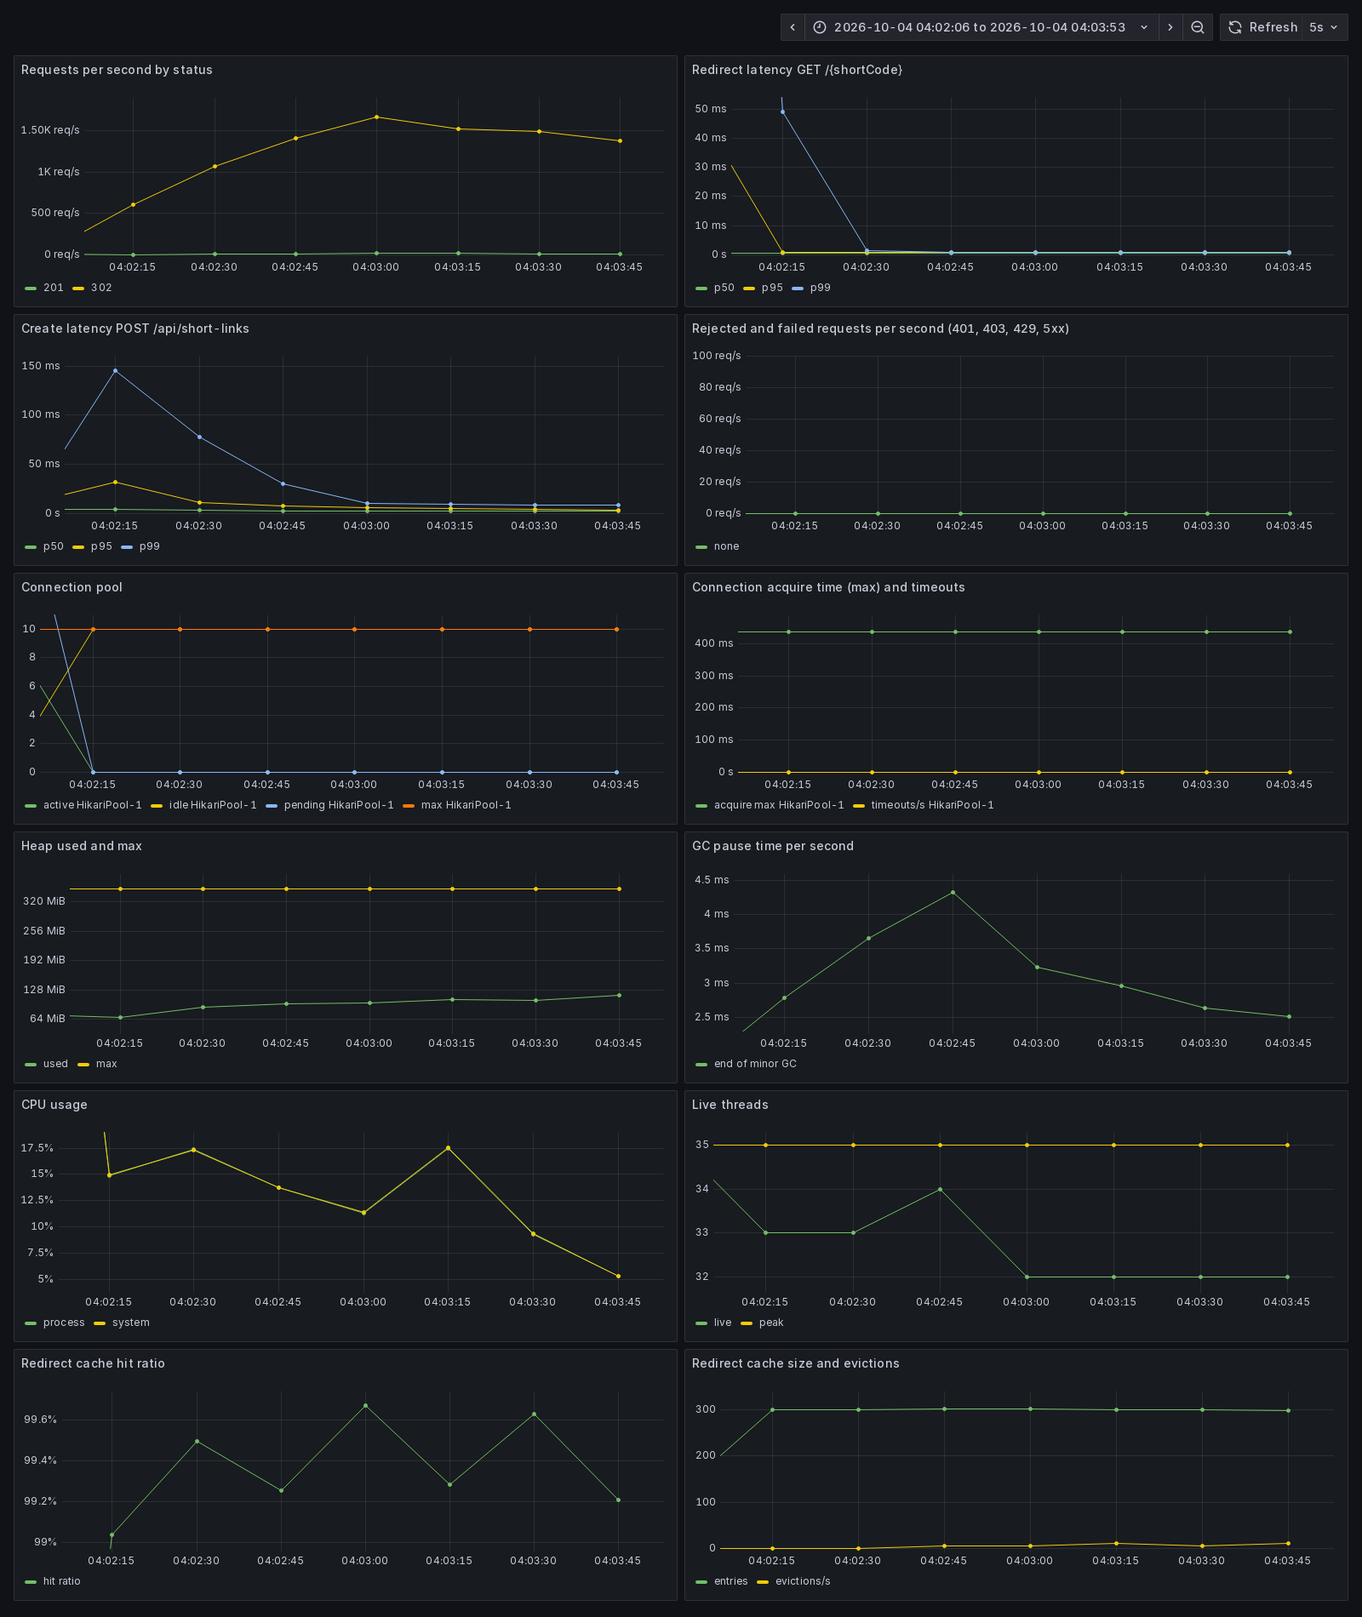
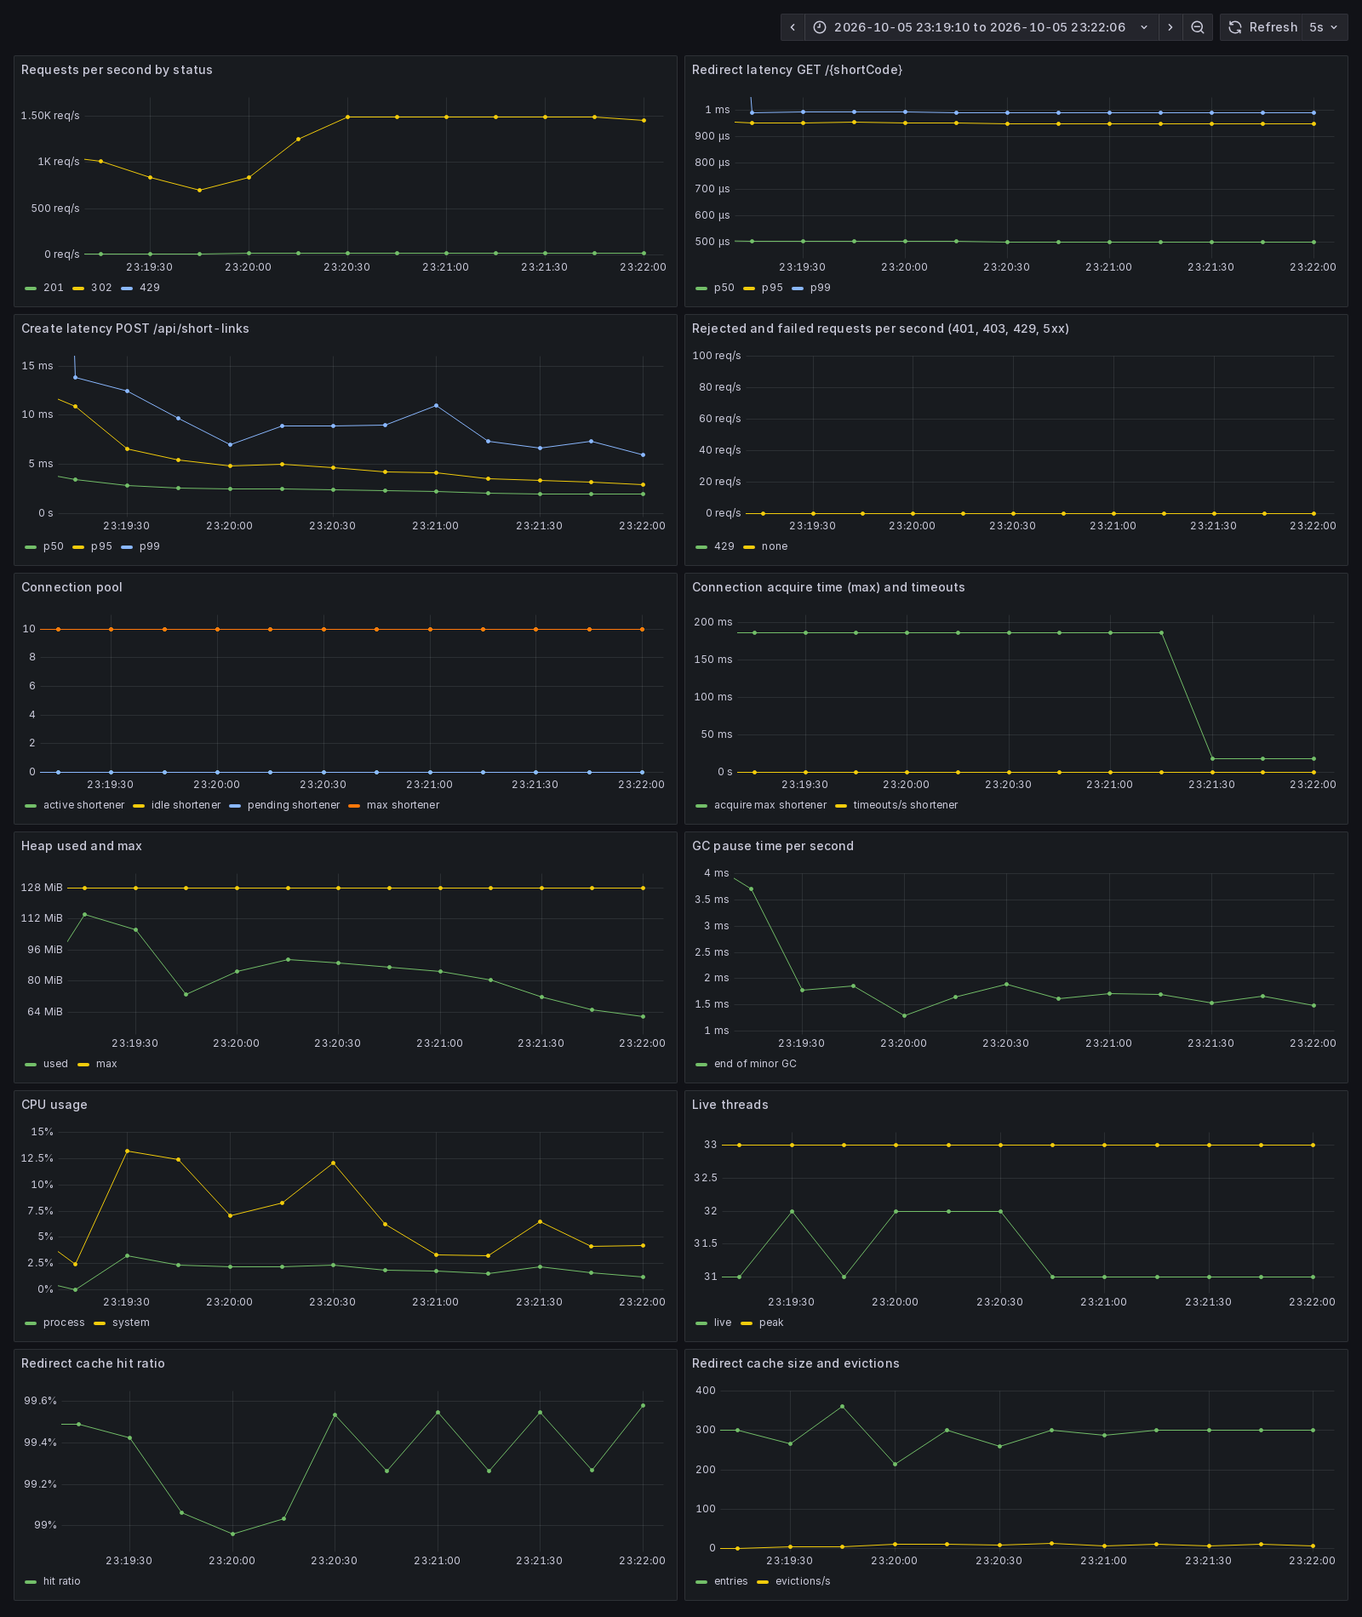
Move the screenshots to an observability guide, with tables and fresh captures
The README's "What it looks like" section is gone. docs/OBSERVABILITY.md now holds what the
service reports about itself, with tables for the signals, the twelve dashboard panels and the
series behind them, the spans, the metrics, the five alerts and the health and database
behaviour, and the two screenshots.

- dashboard.png and trace.png are recaptured from the 0.20.0 JVM build pinned to two cores and
  a 512 MB ceiling, at 1,500 requests a second with 1% creates: about 99% cache hits, redirect
  p99 around 1 ms, nothing rejected. The first attempt was thrown away because the dev profile's
  rate limits answered most of the load with 429.
- The trace panel is cropped to the trace, without the surrounding Grafana interface.
- INTERNALS keeps the observability decisions and links to the guide. The README links to it
  from the local observability instructions and from the layout.

diff --git a/docs/OBSERVABILITY.md b/docs/OBSERVABILITY.md
@@ -1,0 +1,129 @@
+# Observability
+
+What the service reports about itself, what it looks like, and what to alert on. Running it locally:
+`docker compose --profile observability up -d` starts Prometheus, Grafana (<http://localhost:3000>, no login), Tempo and the
+Postgres exporter, and `./gradlew bootRun` uses the `dev` profile, which samples every trace. The production stack has
+its own overlay, see [DEPLOY.md](DEPLOY.md#operate).
+
+- [At a glance](#at-a-glance)
+- [Dashboard](#dashboard)
+- [Traces](#traces)
+- [Metrics](#metrics)
+- [Alerts](#alerts)
+- [Health, logs and the database](#health-logs-and-the-database)
+- [Not done](#not-done)
+
+## At a glance
+
+| Signal | Where | Notes |
+|---|---|---|
+| Metrics | `/actuator/prometheus`, management port 8081 | internal, never proxied by the edge |
+| Dashboard | `deploy/observability/grafana/dashboards/shortener.json` | twelve panels |
+| Traces | OTLP over HTTP to Tempo | sampling 0 by default, 100% under `dev`, 5% under `production` |
+| Logs | JSON on stdout (ECS) under `production` | trace and span ids included |
+| Health | `/actuator/health/liveness` and `/readiness`, management port | readiness does not include the database |
+| Alerts | `deploy/observability/alerts.yml` | five rules, unit-tested with promtool |
+
+## Dashboard
+
+The shipped dashboard during a run of 1,500 requests a second, 1% of them creates, with the JVM limited to two cores and
+a 512 MB memory ceiling. The redirect cache answers about 99% of redirects (the hit ratio panel), so the connection pool stays idle.
+
+![Grafana dashboard](images/dashboard.png)
+
+| Panel | Answers | Main series |
+|---|---|---|
+| Requests per second by status | how much traffic, and how it ends | `http_server_requests_seconds_count` by `status` |
+| Redirect latency | how fast `GET /{shortCode}` is (p50, p95, p99) | `http_server_requests_seconds_bucket`, `uri="/{shortCode}"` |
+| Create latency | how fast `POST /api/short-links` is | the same, `uri="/api/short-links"` |
+| Rejected and failed requests | what is refused: 401, 403, 429, 5xx | `http_server_requests_seconds_count` by `status` |
+| Connection pool | active, idle, pending and maximum connections | `hikaricp_connections_*` |
+| Connection acquire time and timeouts | whether requests wait for the database | `hikaricp_connections_acquire_seconds_max`, `hikaricp_connections_timeout_total` |
+| Heap used and max | memory pressure | `jvm_memory_used_bytes`, `jvm_memory_max_bytes` |
+| GC pause time per second | cost of garbage collection | `jvm_gc_pause_seconds_sum` |
+| CPU usage | process and system CPU | `process_cpu_usage`, `system_cpu_usage` |
+| Live threads | live and peak threads | `jvm_threads_live_threads`, `jvm_threads_peak_threads` |
+| Redirect cache hit ratio | the share of redirects answered from memory | `cache_gets_total` by `result` |
+| Redirect cache size and evictions | whether the cache is full | `cache_size`, `cache_evictions_total` |
+
+- A panel stays empty until its event happens, because Prometheus has no series for something that has not occurred.
+- The native image has no JVM garbage collector beans, so its GC panel is empty and its heap maximum reads zero.
+- Route templates, not codes, label the request series, so short codes never become label values (tested).
+
+## Traces
+
+A create request in Tempo: the HTTP span and, under it, the `shortlink.insert` span for the database write.
+
+![A create request as a trace in Tempo](images/trace.png)
+
+| Span | Means |
+|---|---|
+| `http <method> <route>` | one per request, named by route (`http get /{shortCode}`), joined to the caller's trace by `traceparent` |
+| `shortlink.load` | a redirect that missed the cache and read the database. A cached redirect has no such span |
+| `shortlink.insert` | one attempt to store a link. A code collision shows as a second insert |
+
+- `shortlink.load` and `shortlink.insert` are also timers: `shortlink_load_seconds` and `shortlink_insert_seconds`.
+- Trace and span ids are in the logs. Spring Security's per-filter observations are off, which would add a span per filter.
+- The exporter is always built in and its endpoint has a default in `application.yaml`. A native image decides at build
+  time which beans exist, so removing the endpoint, or supplying it only at run time, compiles the exporter out
+  silently. Environment variables still override the value at run time.
+- Export of logs and metrics over OTLP is off.
+
+## Metrics
+
+| Series | Type | Use |
+|---|---|---|
+| `http_server_requests_seconds` | histogram | rate, errors and latency by route and status |
+| `hikaricp_connections_active`, `_idle`, `_pending`, `_max` | gauge | pool use |
+| `hikaricp_connections_acquire_seconds_max` | gauge | the longest wait for a connection |
+| `hikaricp_connections_timeout_total` | counter | requests that gave up waiting for a connection |
+| `cache_gets_total{cache="shortlink.redirect"}` | counter | hits and misses of the redirect cache |
+| `cache_size`, `cache_evictions_total` | gauge, counter | cache fill |
+| `shortlink_redirect_cache_stale_total` | counter | redirects served from an expired entry while the database was down. Should be zero |
+| `shortlink_load_seconds`, `shortlink_insert_seconds` | timer | the database read of a redirect, and each insert attempt |
+| `jvm_*`, `process_*` | | memory, GC, threads and CPU of the JVM |
+| `pg_*` | | the database, from the Postgres exporter |
+
+## Alerts
+
+`deploy/observability/alerts.yml`, on what the application sees of its database and its cache. The cache answers about 99%
+of redirects, so the pool is idle in normal operation: any of these means the cache is not absorbing the load, or the
+database is slow or gone.
+
+| Alert | Fires when | For | Severity |
+|---|---|---|---|
+| `ShortenerDatabasePoolExhausted` | requests are waiting for a connection | 2 m | warning |
+| `ShortenerDatabaseConnectionTimeouts` | requests gave up waiting for a connection, or the database could not be reached | 1 m | warning |
+| `ShortenerDatabaseSlowToConnect` | the slowest wait for a connection exceeds 500 ms | 10 m | warning |
+| `ShortenerStorageUnavailable` | more than 1% of requests are answered `503` | 5 m | critical |
+| `ShortenerServingStaleRedirects` | redirects are served from an expired entry because the database cannot be reached | 2 m | warning |
+
+- Each rule has a unit test with simulated series, in `deploy/observability/alerts.test.yml`. CI runs them with promtool:
+
+  ```bash
+  docker run --rm -v "$PWD/deploy/observability:/rules:ro" -w /rules --entrypoint promtool \
+    prom/prometheus:v3.5.0 test rules alerts.test.yml
+  ```
+- Prometheus evaluates them and shows them in its interface. Sending them somewhere needs an Alertmanager, see
+  `deploy/observability/prometheus.stack.yml`.
+- The database server's own alerts (connections against `max_connections`, replication, backup age, transaction age)
+  depend on how Postgres is run, and are not here.
+
+## Health, logs and the database
+
+| What | Behaviour |
+|---|---|
+| Liveness | the process is up |
+| Readiness | the application's own state only. It excludes the database: every instance shares one, so removing them all from rotation gains nothing, and the health check that restarts unhealthy containers would restart all of them during an outage. An instance answers what it can and gives `503` with `Retry-After` for the rest |
+| Logs | structured ECS JSON under the `production` profile, plain text otherwise |
+| Slow statements | `deploy/postgres/diagnostics.conf` logs statements over 250 ms with their plan, lock waits, sorts that spill to disk and slow autovacuums |
+| Database metrics | `postgres_exporter` as `shortener_exporter`, limited to 25 statements and no query text |
+| When it is slow | `perf/pg-diagnostics.sql`: connections by application and state, what waits for a lock, the costliest statements, cache hit ratio, dead rows, unused indexes and distance from transaction ID wraparound |
+
+Every connection reports `shortener-<hostname>` as its application name, so `pg_stat_activity` says who holds what.
+
+## Not done
+
+- Metrics from the nginx edge.
+- A Grafana dashboard for Postgres. The exporter's series are there to build one.
+- Anything that sends the alerts Prometheus fires.

diff --git a/README.md b/README.md
@@ -43,21 +43,10 @@ curl -i http://localhost:8080/<shortCode>
 ```
 
 Optional observability: `docker compose --profile observability up -d` starts Prometheus, Grafana and Tempo. Open
-<http://localhost:3000/d/shortener/shortener>. The `dev` profile samples every trace.
+<http://localhost:3000/d/shortener/shortener>. The `dev` profile samples every trace. What you will see is in
+[docs/OBSERVABILITY.md](docs/OBSERVABILITY.md), with screenshots.
 
 The dev clients, keys and secrets in this repository are public on purpose. Never use them anywhere real.
-
-## What it looks like
-
-The shipped Grafana dashboard at 1,500 requests a second, 1% creates (JVM, 2 cores, 512 MB). The cache answers about 99%
-of redirects, so the pool stays idle:
-
-![Grafana dashboard](docs/images/dashboard.png)
-
-A create as a trace in Tempo: the HTTP span and its `shortlink.insert` child. A cached redirect is one span, a miss adds
-`shortlink.load`:
-
-![A trace in Tempo](docs/images/trace.png)
 
 ## API
 
@@ -137,11 +126,85 @@ src/main/kotlin/uy/ct/shortener
   shortlink/            public contract: types, service and repository interfaces, exceptions
     internal/           service, cache, web, persistence and authorization adapters
   security/             resource server, DPoP, rate limiting, problem details
+compose.prod.yaml       the production stack (compose.prod.observability.yaml adds Prometheus)
+deploy/                 edge and stack scripts, Postgres setup, Keycloak realm and dev keys, alert rules, Grafana, Tempo
+.github/workflows/      CI on every push, a release on v* tags, a manual native image build
+perf/                   k6 workload, benchmark and profiling scripts, results
+docs/INTERNALS.md       how it works and why
+docs/DEPLOY.md          the production stack runbook
+docs/OBSERVABILITY.md   metrics, dashboard, traces and alerts, with screenshots
+docs/openapi.yaml](docs/openapi.yaml). A test fails if it drifts from the code.
+
+## Configuration
+
+Everything has a default for local development. Deployed, set `SPRING_PROFILES_ACTIVE=production` (JSON logs, no
+internals in errors or health, 5% trace sampling, DPoP required) and the environment variables below:
+
+| Variable | Meaning |
+|---|---|
+| `SPRING_DATASOURCE_URL`, `_USERNAME`, `_PASSWORD` | Postgres, as the role that serves requests (`shortener_app`) |
+| `SPRING_FLYWAY_URL`, `_USER`, `_PASSWORD` | Postgres, as the role that owns the tables (`shortener_migrator`). Only the init container that migrates sets them. With `SHORTENER_MIGRATE_ONLY=true` the process applies the migrations and exits |
+| `SPRING_SECURITY_OAUTH2_RESOURCESERVER_JWT_ISSUERURI`, `_JWKSETURI`, `_AUDIENCES` | the identity provider |
+| `SHORTENER_SECURITY_DPOP_REQUIRED` | `true` by default; `false` also accepts plain bearer tokens (development and tests only) |
+| `SHORTENER_SECURITY_RATELIMIT_PERIP_CAPACITY`, `..._PERCLIENT_CAPACITY` | requests per minute per IP (300) and per client (60) |
+| `SERVER_TOMCAT_MAXCONNECTIONS` | connections Tomcat accepts before refusing (500); each costs about 150 KB of heap |
+| `SHORTENER_SHORTLINK_REDIRECTCACHE_STALEIFERROR` | how long after it was last read a link is still followed when the database cannot be reached (5m); `0` turns it off |
+| `SHORTENER_SHORTLINK_REDIRECTCACHE_TTL`, `..._MAXENTRIES` | how long (30s) and how many (100,000) links the redirect cache keeps; `..._ENABLED=false` turns it off |
+
+Environment variable names have no separator inside a word: `SPRING_DATASOURCE_HIKARI_CONNECTIONTIMEOUT`, not
+`..._CONNECTION_TIMEOUT`. Spring reads every underscore as a dot, so the second asks for `hikari.connection.timeout`,
+which starts the pool while looking for it, and the application then fails with `The configuration of the pool is sealed
+once started`.
+
+## Build, test, package
+
+```bash
+./gradlew test                  # integration tests use Testcontainers
+./gradlew bootBuildImage        # native image on Alpaquita (musl); needs about 7 GB free, takes 3 minutes
+```
+
+- The build is pinned in `build.gradle.kts`: Paketo buildpacks by version, BellSoft's builder and run image by digest.
+- The image runs as uid 1000, starts in about 0.4 s, and carries `/workspace/health-check` for container health checks.
+- `perf/smoke.sh` exercises every endpoint with real tokens against a running instance.
+
+## Deploy
+
+`compose.prod.yaml` is the production stack, for Docker Swarm or one host with Compose:
+
+- An nginx edge with TLS, and two application instances behind it, health-gated rolling updates with automatic rollback.
+- A migration job that alone holds the credentials of the role that owns the tables, and a Postgres you can replace
+  with a managed one.
+- Every container read-only, without capabilities, non-root and bounded. Secrets are files, not variables.
+- An optional overlay with Prometheus, the Postgres exporter and the alert rules.
+
+Runbook: [docs/DEPLOY.md](docs/DEPLOY.md). Design and what it gives up against Kubernetes:
+[docs/INTERNALS.md](docs/INTERNALS.md#deployment).
+
+## Performance
+
+One laptop, app limited to 2 cores and 512 MB:
+
+- The JVM and the native image both serve about 5,000 requests a second at a redirect p99 of 1 ms.
+- The native image starts in 0.4 s.
+- The redirect cache and a connection limit keep the native image stable under overload.
+
+Method, numbers and the investigation: [docs/INTERNALS.md](docs/INTERNALS.md#performance). Read the warning there
+before running load tests.
+
+## Layout
+
+```
+src/main/kotlin/uy/ct/shortener
+  shortlink/            public contract: types, service and repository interfaces, exceptions
+    internal/           service, cache, web, persistence and authorization adapters
+  security/             resource server, DPoP, rate limiting, problem details
 compose.prod.yaml        the production stack (compose.prod.observability.yaml adds Prometheus)
 deploy/                 edge and stack scripts, Postgres setup, Keycloak realm and dev keys, alert rules, Grafana, Tempo
 .github/workflows/      CI: tests and manifest checks on every push, a manual native image build
 perf/                   k6 workload, benchmark and profiling scripts, results
 docs/INTERNALS.md       how it works and why
+docs/OBSERVABILITY.md  metrics, dashboard, traces and alerts, with screenshots
+docs/DEPLOY.md          the production stack runbook
 docs/openapi.yaml       the API contract
 docs/UI.md              the plan for a web UI (TanStack Start and Mantine)
 ```

diff --git a/docs/INTERNALS.md b/docs/INTERNALS.md
@@ -322,48 +322,19 @@ Every error is an RFC 9457 problem detail (`application/problem+json`), rendered
 
 ## Observability
 
-- **Metrics**: `/actuator/prometheus` on management port 8081, which is internal.
-  - Key series: `http_server_requests_seconds`, a histogram tagged by route template and status, so short codes never
-    become label values (tested).
-  - Hikari, JVM and process metrics come with it.
-- **Dashboard**: `deploy/observability/grafana/dashboards/shortener.json`, twelve panels.
-  - A panel stays empty until traffic arrives.
-  - The native image has no GC beans, so its GC panel is empty and its heap maximum reads zero.
-- **Logs**: structured ECS JSON under the `production` profile.
-- **Health**: liveness and readiness on the management port. Readiness is the application's own state and does not
-  include the database. Every instance shares one database, so removing them all from rotation gains nothing, and the
-  health check that restarts unhealthy containers would restart all of them during an outage. An instance answers what
-  it can and gives `503` with `Retry-After` for the rest. A rollout stays safe because a new instance only starts after
-  the migration job has reached the database.
-- **Traces**: Micrometer Tracing with the OpenTelemetry bridge, exported over OTLP/HTTP.
-  - A server span per request, named by route, joined to the caller's trace through `traceparent`.
-  - `shortlink.load` marks a redirect that missed the cache, `shortlink.insert` each attempt to store a link. Both are
-    also timers.
-  - Trace and span ids are in the logs. Spring Security's per-filter observations are off to avoid a span per filter.
-  - Sampling: 0 by default, 100% under `dev`, 5% under `production`.
-  - The exporter is always built in and the endpoint has a default in `application.yaml`: a native image decides at
-    build time which beans exist, so removing the endpoint or supplying it only at run time compiles the exporter out
-    silently. Environment variables still override it at run time.
-  - OTLP export of logs and metrics is off.
+What is reported, the dashboard, the traces and the alerts are in [OBSERVABILITY.md](OBSERVABILITY.md). The decisions:
 
-- **The database**, none of it needing the application:
-  - `deploy/postgres/diagnostics.conf` makes the server explain itself: `pg_stat_statements`, `track_io_timing`,
-    statements slower than 250 ms logged with their plan (`auto_explain`) and the user, database and application name,
-    lock waits, sorts that spill to disk and slow autovacuums. The compose files load it. A managed
-    database takes the same settings as parameters.
-  - The dev compose `observability` profile and the stack's observability overlay run `postgres_exporter` as
-    `shortener_exporter`, limited to 25 statements and no query text. Prometheus scrapes it.
-  - `perf/pg-diagnostics.sql` is what to run when it is slow: connections by application and state, what waits for a
-    lock, the costliest statements, cache hit ratio, dead rows, unused indexes and distance from transaction ID
-    wraparound. It works as a member of `pg_monitor`.
-- **Alerts**: `deploy/observability/alerts.yml` has five, on what the application sees of its database.
-  - Requests waiting for a connection, connection timeouts, a slow wait for a connection, more than 1% of requests
-    answered 503, and redirects served stale.
-  - Each has a unit test with simulated series (`deploy/observability/alerts.test.yml`, run with `promtool` in CI).
-  - The server's own alerts (connections against `max_connections`, replication, backup age, transaction age) depend on
-    how Postgres is run, and are not here.
-
-Not done: nginx metrics, and a Grafana dashboard for Postgres (the exporter's series are there to build one).
+- **Readiness excludes the database.** Every instance shares one, so removing them all from rotation gains nothing, and
+  the health check that restarts unhealthy containers would restart all of them during an outage. An instance answers
+  what it can and gives `503` with `Retry-After` for the rest. A rollout stays safe because a new instance only starts
+  after the migration job has reached the database.
+- **The trace exporter is always built in.** A native image decides at build time which beans exist, so an endpoint that
+  is missing when the image is built, or given only at run time, compiles the exporter out silently. The endpoint has a
+  default in `application.yaml`, and environment variables still override it.
+- **Metrics are labelled by route template**, so short codes never become label values.
+- **The management port is internal.** Health and metrics are never proxied by the edge.
+- **The database explains itself, without the application:** slow-statement logging, an exporter that cannot read data,
+  and a diagnostics script. See `deploy/postgres/diagnostics.conf` and `perf/pg-diagnostics.sql`.
 
 ## Native image
 
